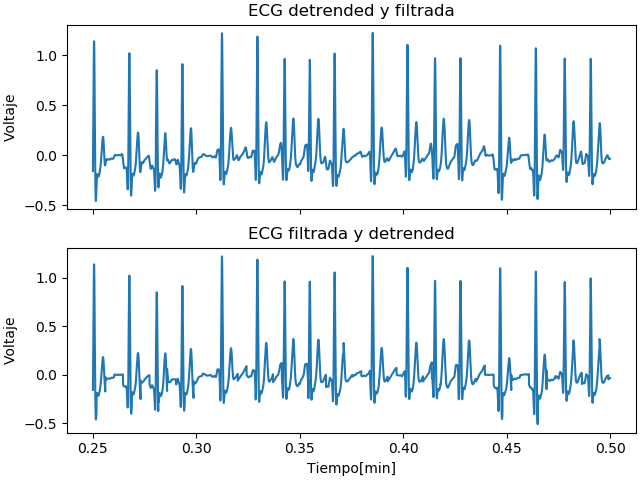
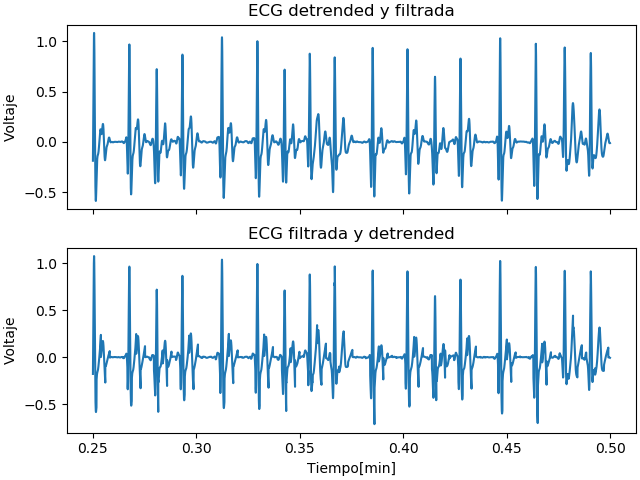
practica completa

diff --git a/src/prac2_final.py b/src/prac2_final.py
@@ -77,10 +77,10 @@ ax0.plot(s0[15000:30000,0], s0[15000:30000,4]); ax0.set(title='Pulso sin filtrar
 ax1.plot(s0[15000:30000,0], Pulsof[15000:30000]); ax1.set(title='Pulso sin filtrar', ylabel='Voltaje', xlabel='Tiempo [min]')
 fig.savefig('C:\\Users\\Mouzhroq\\Desktop\\Python\\MCIB-19-P\\images\\Practica 2\\Pulsofiltrada.png')
 
-ECGdetrend, fig = MCI.detrend(s0[:,2], s0[:,0], 512)
+ECGdetrend, fig = MCI.detrend(s0[:,2], s0[:,0], 256)
 ECGdetrendf = sg.filtfilt(b0, a0, ECGdetrend)
 ECGfilt = sg.filtfilt(b0, a0, s0[:,2])
-ECGfdetrend, fig = MCI.detrend(ECGfilt, s0[:,0], 512)
+ECGfdetrend, fig = MCI.detrend(ECGfilt, s0[:,0], 256)
 fig, (ax0, ax1) = plt.subplots(nrows=2, sharex=True, constrained_layout=True)
 ax0.plot(s0[15000:30000,0], ECGdetrendf[15000:30000]); ax0.set(title='ECG detrended y filtrada', ylabel='Voltaje')
 ax1.plot(s0[15000:30000,0], ECGfdetrend[15000:30000]); ax1.set(title='ECG filtrada y detrended', ylabel='Voltaje', xlabel='Tiempo[min]')
